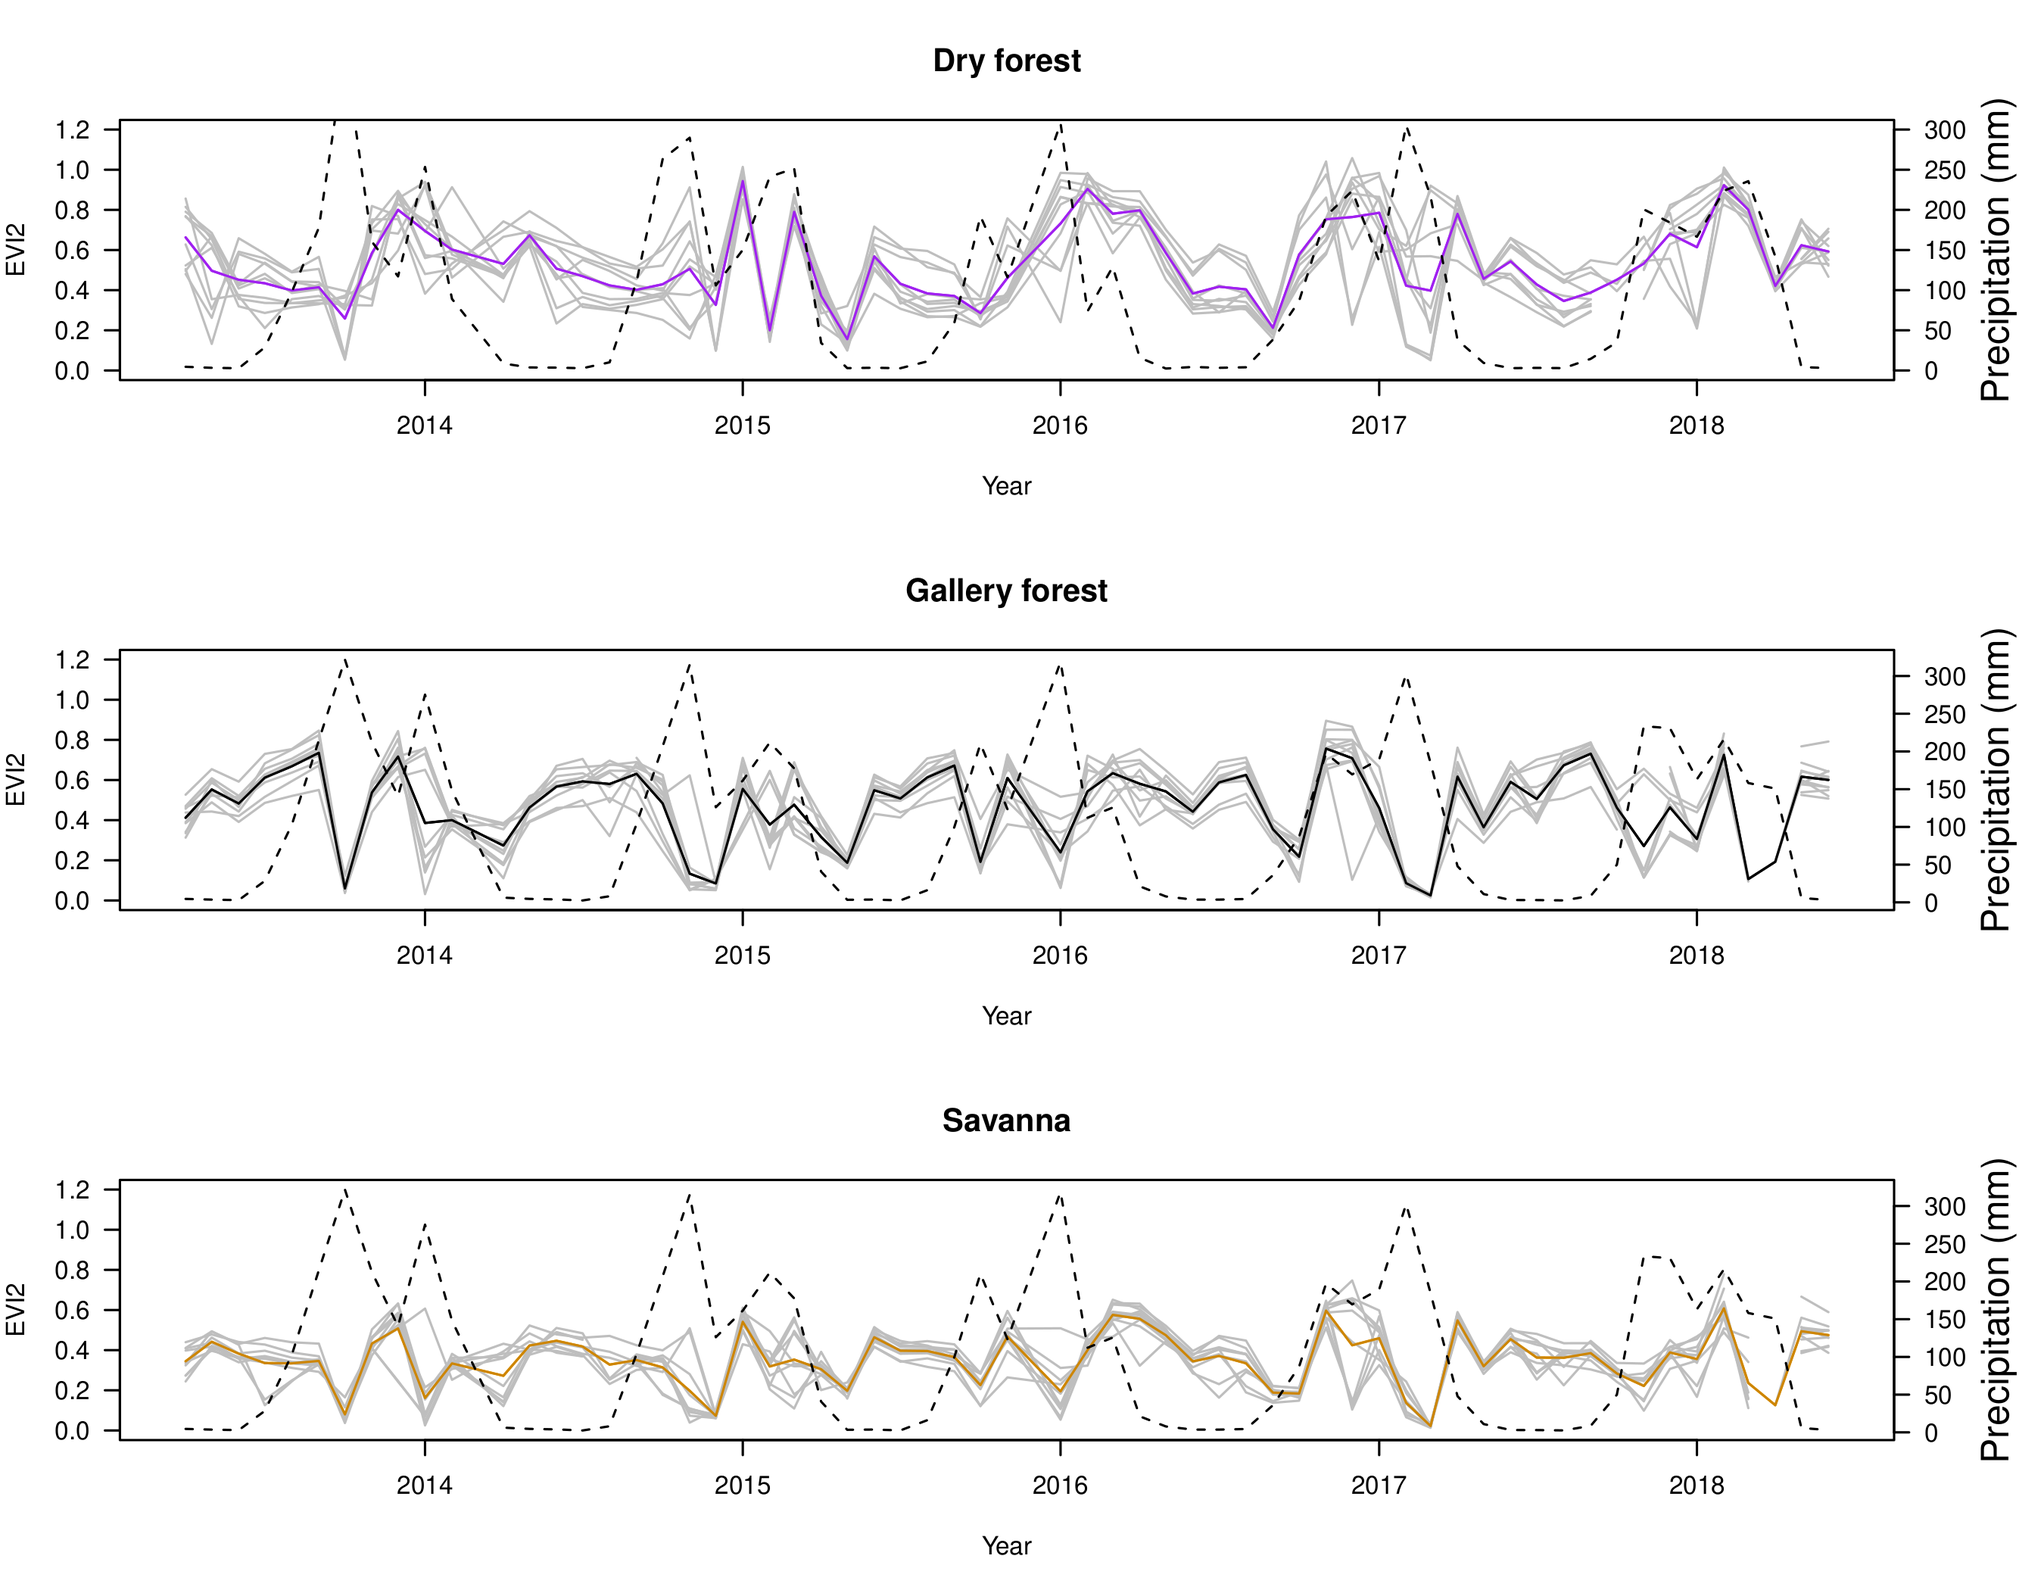
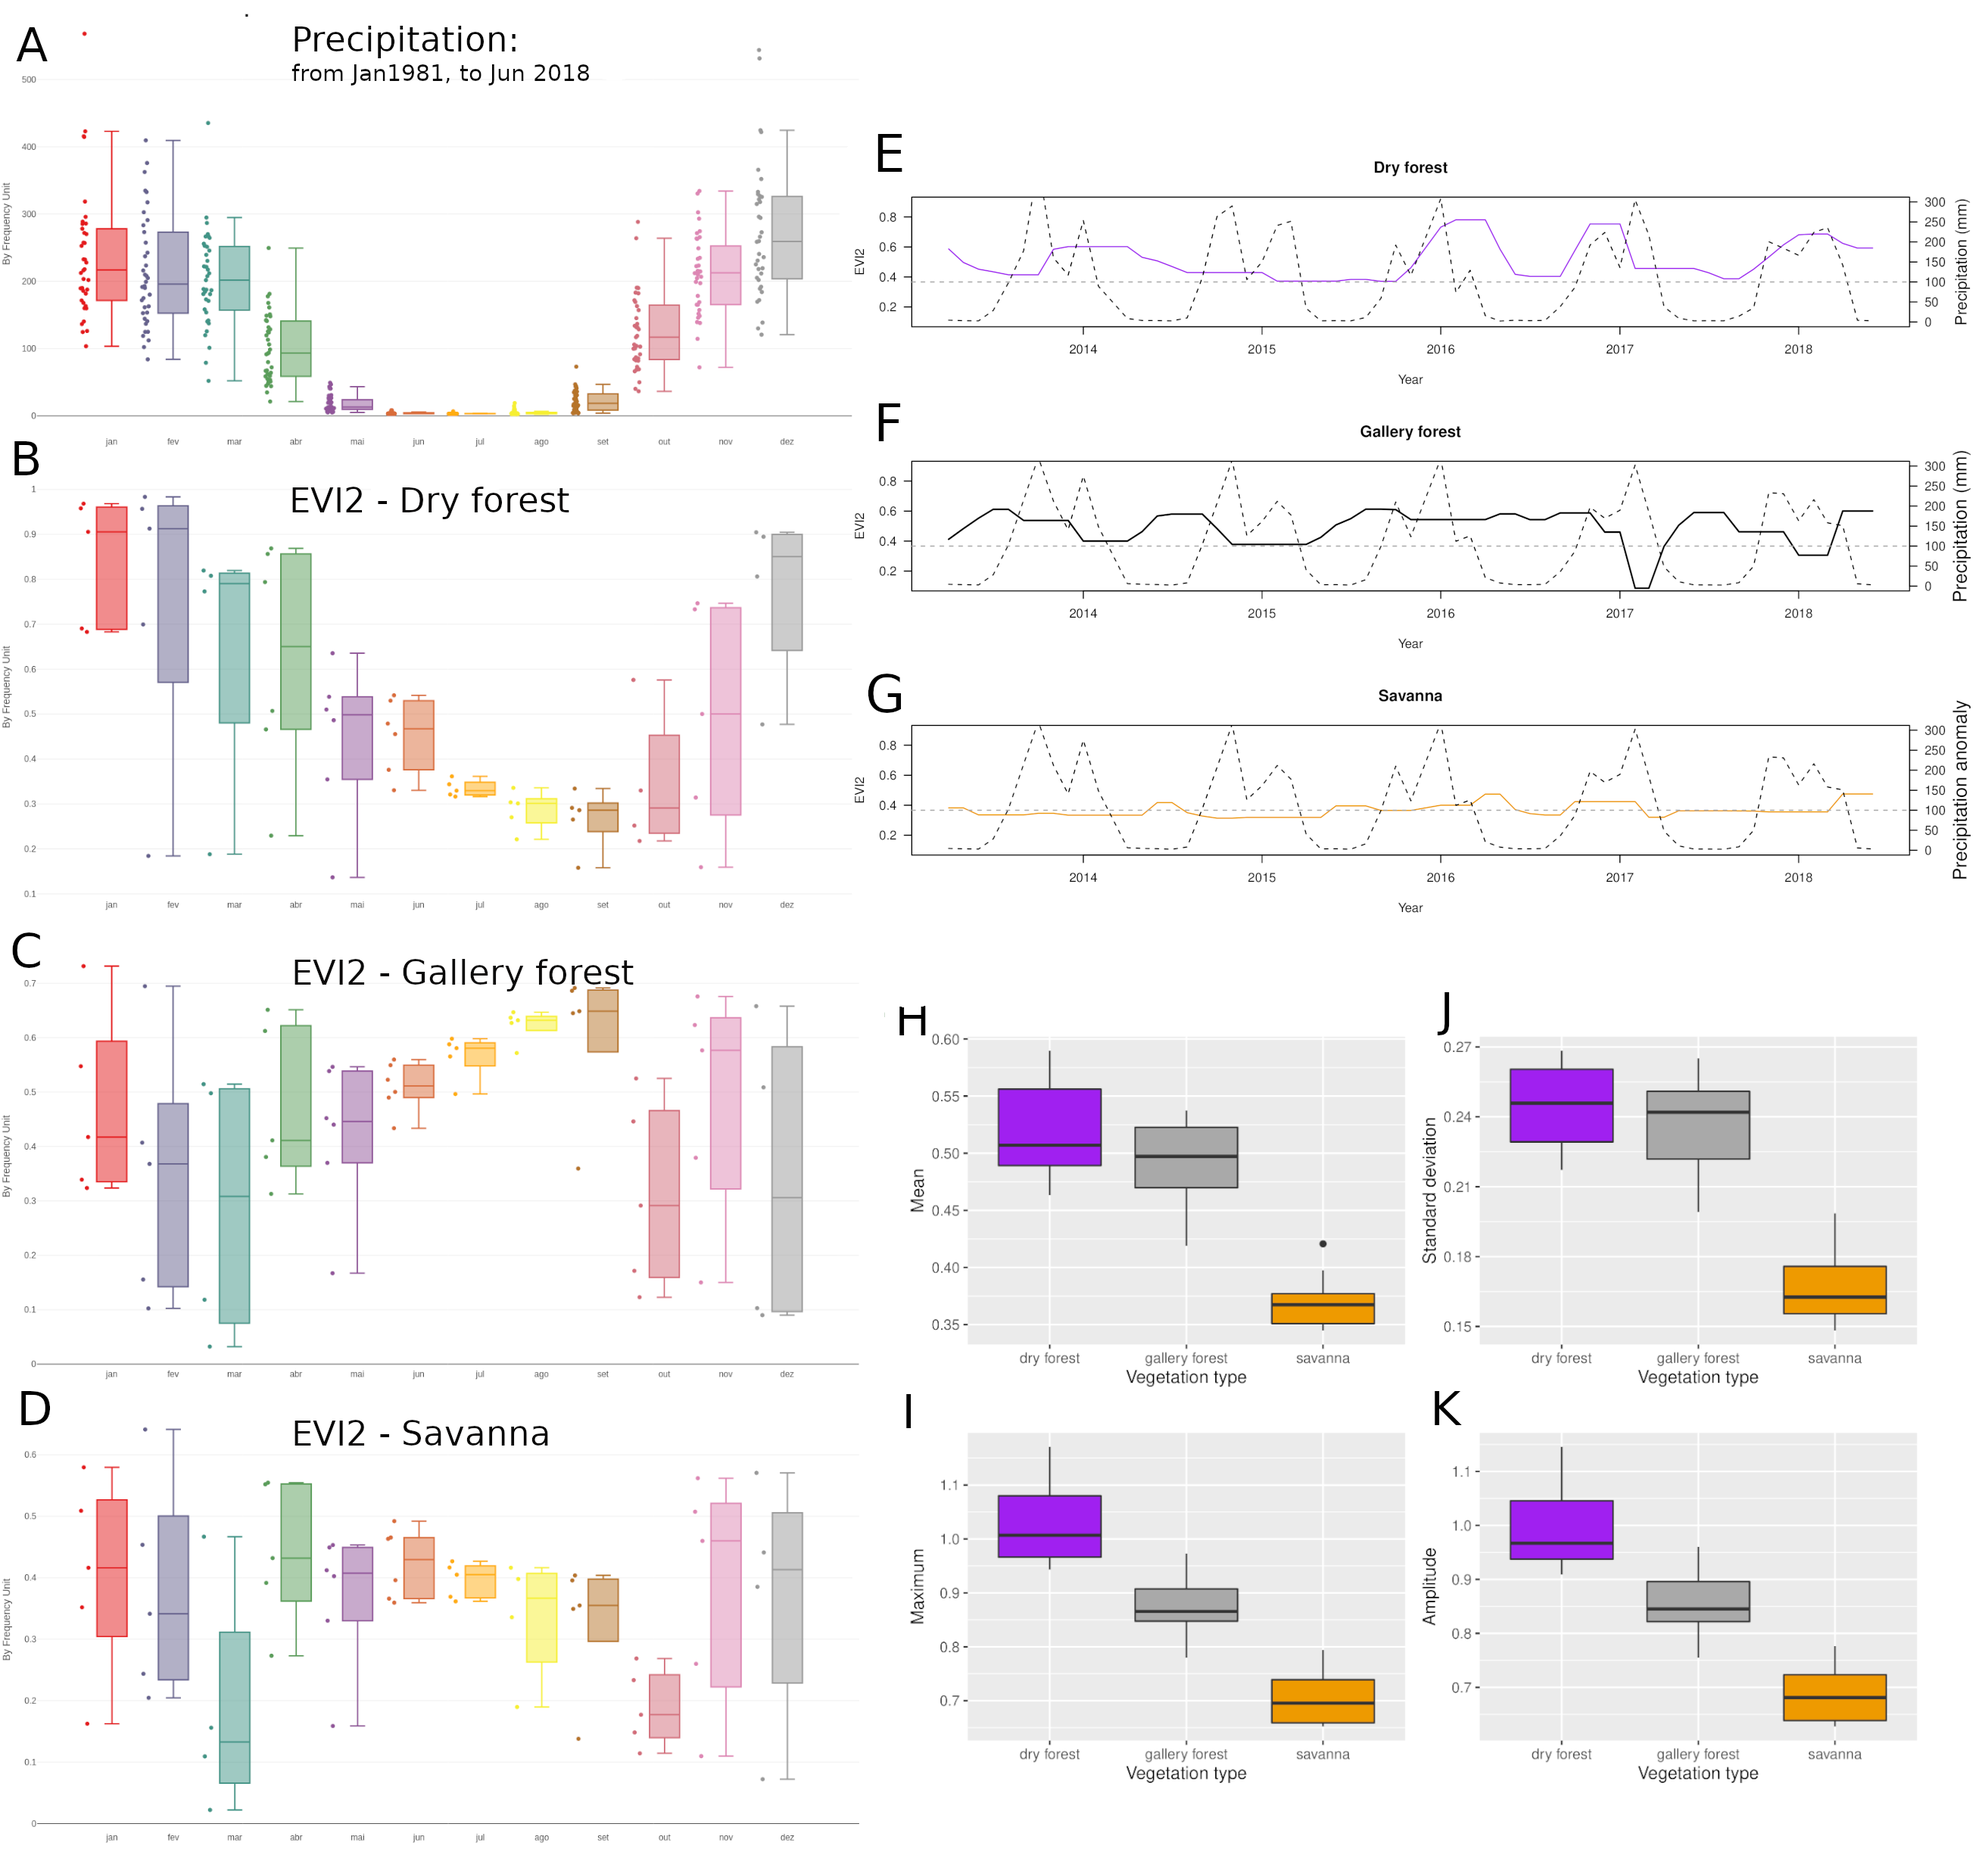
Atualizações para a defesa de qualificação.

diff --git a/index.html b/index.html
@@ -1,10 +1,10 @@
 <!DOCTYPE html>
 <html lang="" xml:lang="">
   <head>
-    <title>Coexisting biomes in a heterogeneous landscape are alternative stable states?</title>
+    <title>Are coexisting biomes in a heterogeneous tropical landscape alternative stable states?</title>
     <meta charset="utf-8" />
-    <meta name="author" content="Marcio Baldissera Cure - Bernardo Monteiro Flores - Rafael S. Oliveira - Marina Hirota" />
-    <meta name="date" content="2021-07-16" />
+    <meta name="author" content="Marcio Baldissera Cure - Bernardo Monteiro Flores - Rafael Silva Oliveira - Marina Hirota" />
+    <meta name="date" content="2021-09-22" />
     <script src="libs/header-attrs/header-attrs.js"></script>
     <link href="libs/remark-css/uo.css" rel="stylesheet" />
     <link href="libs/remark-css/rutgers-fonts.css" rel="stylesheet" />
@@ -30,15 +30,15 @@
     <textarea id="source">
 class: center, middle, inverse, title-slide
 
-# Coexisting biomes in a heterogeneous landscape are alternative stable states?
-## Apresentação para o IPES
-### Marcio Baldissera Cure - Bernardo Monteiro Flores - Rafael S. Oliveira - Marina Hirota
+# Are coexisting biomes in a heterogeneous tropical landscape alternative stable states?
+## Qualificação de doutorado
+### Marcio Baldissera Cure - Bernardo Monteiro Flores - Rafael Silva Oliveira - Marina Hirota
 ### PPG Ecologia, UFSC
-### 2021-07-16
+### 2021-09-22
 
 ---
 
-class: top, center
+class: top, left
 
 <div>
 <style type="text/css">.xaringan-extra-logo {
@@ -82,18 +82,94 @@ top:1em;right:1em;
 
 
 
+# Resiliência
+
+
+- Parte do princípio da existência de estados alternativos de funcionamento;
+
+-  Estados alternativos podem ocorrer sob as mesma
+s condições ambientais;
+
+- Variável de estado (característica estrutural ou funcional que dá identidade ao sistema) tem resposta não linear à mudanças nas condições do sistema.
+
+--
+
+- Capacidade que os sistemas possuem de absorver impactos antes de colapsar para um estado alternativo de funcionamento
+
+- Capacidade de auto organização.
+
+.center[
+*Holling 1973 - Annual Review of Ecology and Systematics*
+]
+
+---
 ## Savanas e Florestas na região tropical
 
-São estados alternativos em relação à estrutura da vegetação (cobertura do dossel) determinados parcialmente pela PMA
+- São estados alternativos em termos de estrutura da vegetação (cobertura do dossel) determinados parcialmente pela PMA (Hirota et al 2011 - Science). 
 
 &lt;div class="figure" style="text-align: center"&gt;
 &lt;img src="img/hirota.jpg" alt="Hirota et al (2011) Science" width="60%" /&gt;
 &lt;p class="caption"&gt;Hirota et al (2011) Science&lt;/p&gt;
 &lt;/div&gt;
+---
+## Outra forma de identificar os mesmos estados alternativos
+
+*Hirota et al 2011 - Science*
+
+---
+
+# Objetivo geral da Tese
+
+## A tese tem por objetivo geral entender a resiliência da vegetação neotropical à mudanças nos regimes de chuva com base na funcionalidade da vegetação.
 
 ---
 class: top, left
 
+# Relação da estrutura com a funcionalidade
+
+- Estudos sugerem que a funcionalidade da vegetação seja correspondente à estrutura. (*Xu et al 2015; Xu et al 2016; Xu et al 2018.*)
+
+--
+
+## CAPÍTULO I: 
+
+Pergunta: Mata seca, mata de galeria e savanas sob um mesmo regime de precipitação são estados alternativos funcionais?
+
+Hipótese: São estados alternativos funcionais se: **(a)** forem funcionalmente diferentes e **(b)** se estiverem sob mesmas condições de solo e de disponibilidade de água.
+
+---
+class: top, left
+
+# Funcionalidade depende da amplitude de condições
+
+- Há indícios de que Florestas e savannas submetidos à condições mais variáveis sejam mais resilientes (*Ciemer et al 2019 - Nature Geoscience*).
+
+--
+
+## Capítulo II
+
+- As respostas fenológicas (acoplamento, sd do evi, média do evi, amplitude do evi) dos tipos de vegetação na escala continental dependem do regime de precipitação (MAP, MSI, cv) como a estrutura do dossel depende?
+
+---
+class: top, left
+
+# Resiliência depende dos atributos funcionais
+
+- Funcionalidade e a resposta da vegetação à perturbações depende dos atributos funcionais (*Barros et al 2019 - New Phytologist*).
+
+- E que diferentes tipos de florestas com atributos diferentes podem possuir funcionamento diferente (*Dexter et al 2018 - Frontiers in Ecology and Evolution ; Christoffersen et al 2016 - Geoscientific Model Development*).
+
+--
+
+## Capítulo III
+
+
+Pergunta: A resiliência de savanas e de matas de galeria ao fogo e à seca são determinadas pela hidrologia, pela riqueza de espécies, pela média ou pela variação da comunidade nos atributos funcionais relacionados com resistência ao fogo e à seca?
+
+Hipótese: Florestas alagadas são mais resilientes à eventos de seca, mas são menos resilientes ao fogo. A resiliência está relacionada com a variação de atributos funcionais da comunidade e não necesssariamente à riqueza de espécies.
+
+---
+class: top, left
 ## Sob o mesmo regime de precipitação
 
 - __Savannas__ e __florestas__ dividem a mesma paisagem e sua distribuição é determinada pelo regime de fogo, disponibilidade de água e características do solo.
@@ -183,7 +259,6 @@ class: top, left
 
 &lt;img src="img/biudes2021.png" width="60%" style="display: block; margin: auto;" /&gt;
 
-
 ---
 class: top, left
 
@@ -216,8 +291,8 @@ class: top, left
 ---
 # Mapa interativo pra situar o PNCV
 
-<div id="htmlwidget-21c79550112dc86412b9" style="width:80%;height:432px;" class="leaflet html-widget"></div>
-<script type="application/json" data-for="htmlwidget-21c79550112dc86412b9">{"x":{"options":{"crs":{"crsClass":"L.CRS.EPSG3857","code":null,"proj4def":null,"projectedBounds":null,"options":{}}},"calls":[{"method":"addTiles","args":["//{s}.tile.openstreetmap.org/{z}/{x}/{y}.png",null,null,{"minZoom":0,"maxZoom":18,"tileSize":256,"subdomains":"abc","errorTileUrl":"","tms":false,"noWrap":false,"zoomOffset":0,"zoomReverse":false,"opacity":1,"zIndex":1,"detectRetina":false,"attribution":"&copy; <a href=\"http://openstreetmap.org\">OpenStreetMap<\/a> contributors, <a href=\"http://creativecommons.org/licenses/by-sa/2.0/\">CC-BY-SA<\/a>"}]}],"setView":[[-14.0285,-47.4],9,[]]},"evals":[],"jsHooks":[]}</script>
+<div id="htmlwidget-7a93912cd9fbccf022ff" style="width:80%;height:432px;" class="leaflet html-widget"></div>
+<script type="application/json" data-for="htmlwidget-7a93912cd9fbccf022ff">{"x":{"options":{"crs":{"crsClass":"L.CRS.EPSG3857","code":null,"proj4def":null,"projectedBounds":null,"options":{}}},"calls":[{"method":"addTiles","args":["//{s}.tile.openstreetmap.org/{z}/{x}/{y}.png",null,null,{"minZoom":0,"maxZoom":18,"tileSize":256,"subdomains":"abc","errorTileUrl":"","tms":false,"noWrap":false,"zoomOffset":0,"zoomReverse":false,"opacity":1,"zIndex":1,"detectRetina":false,"attribution":"&copy; <a href=\"http://openstreetmap.org\">OpenStreetMap<\/a> contributors, <a href=\"http://creativecommons.org/licenses/by-sa/2.0/\">CC-BY-SA<\/a>"}]}],"setView":[[-14.0285,-47.4],9,[]]},"evals":[],"jsHooks":[]}</script>
 
 ---
 
